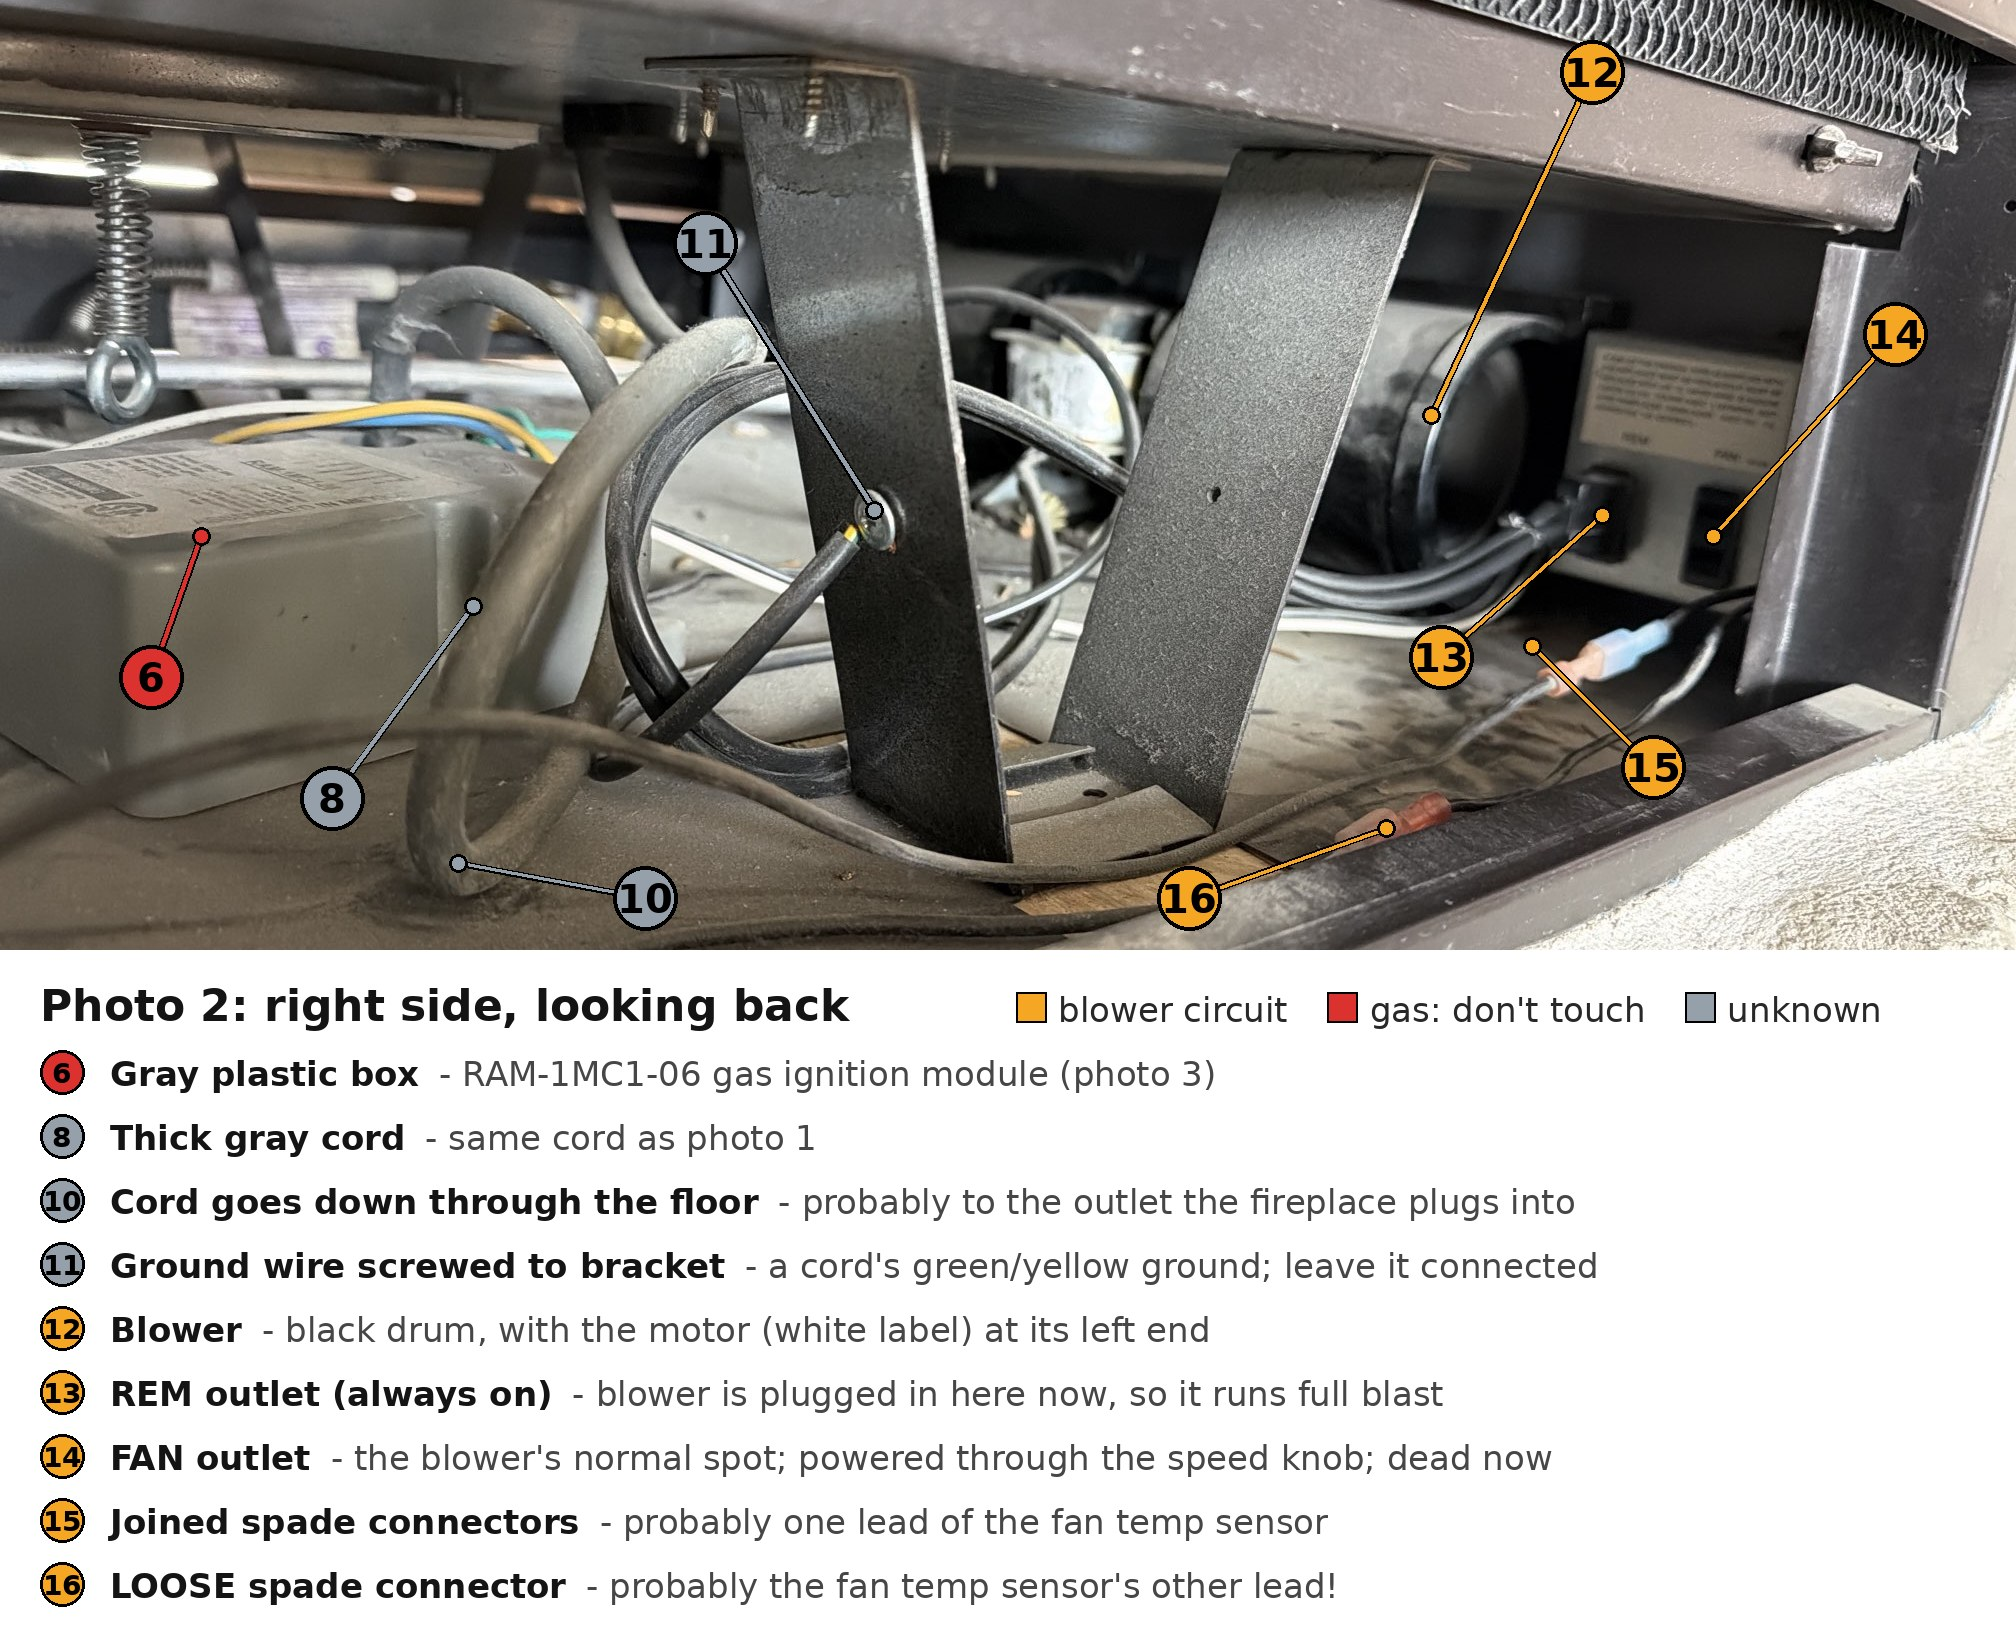
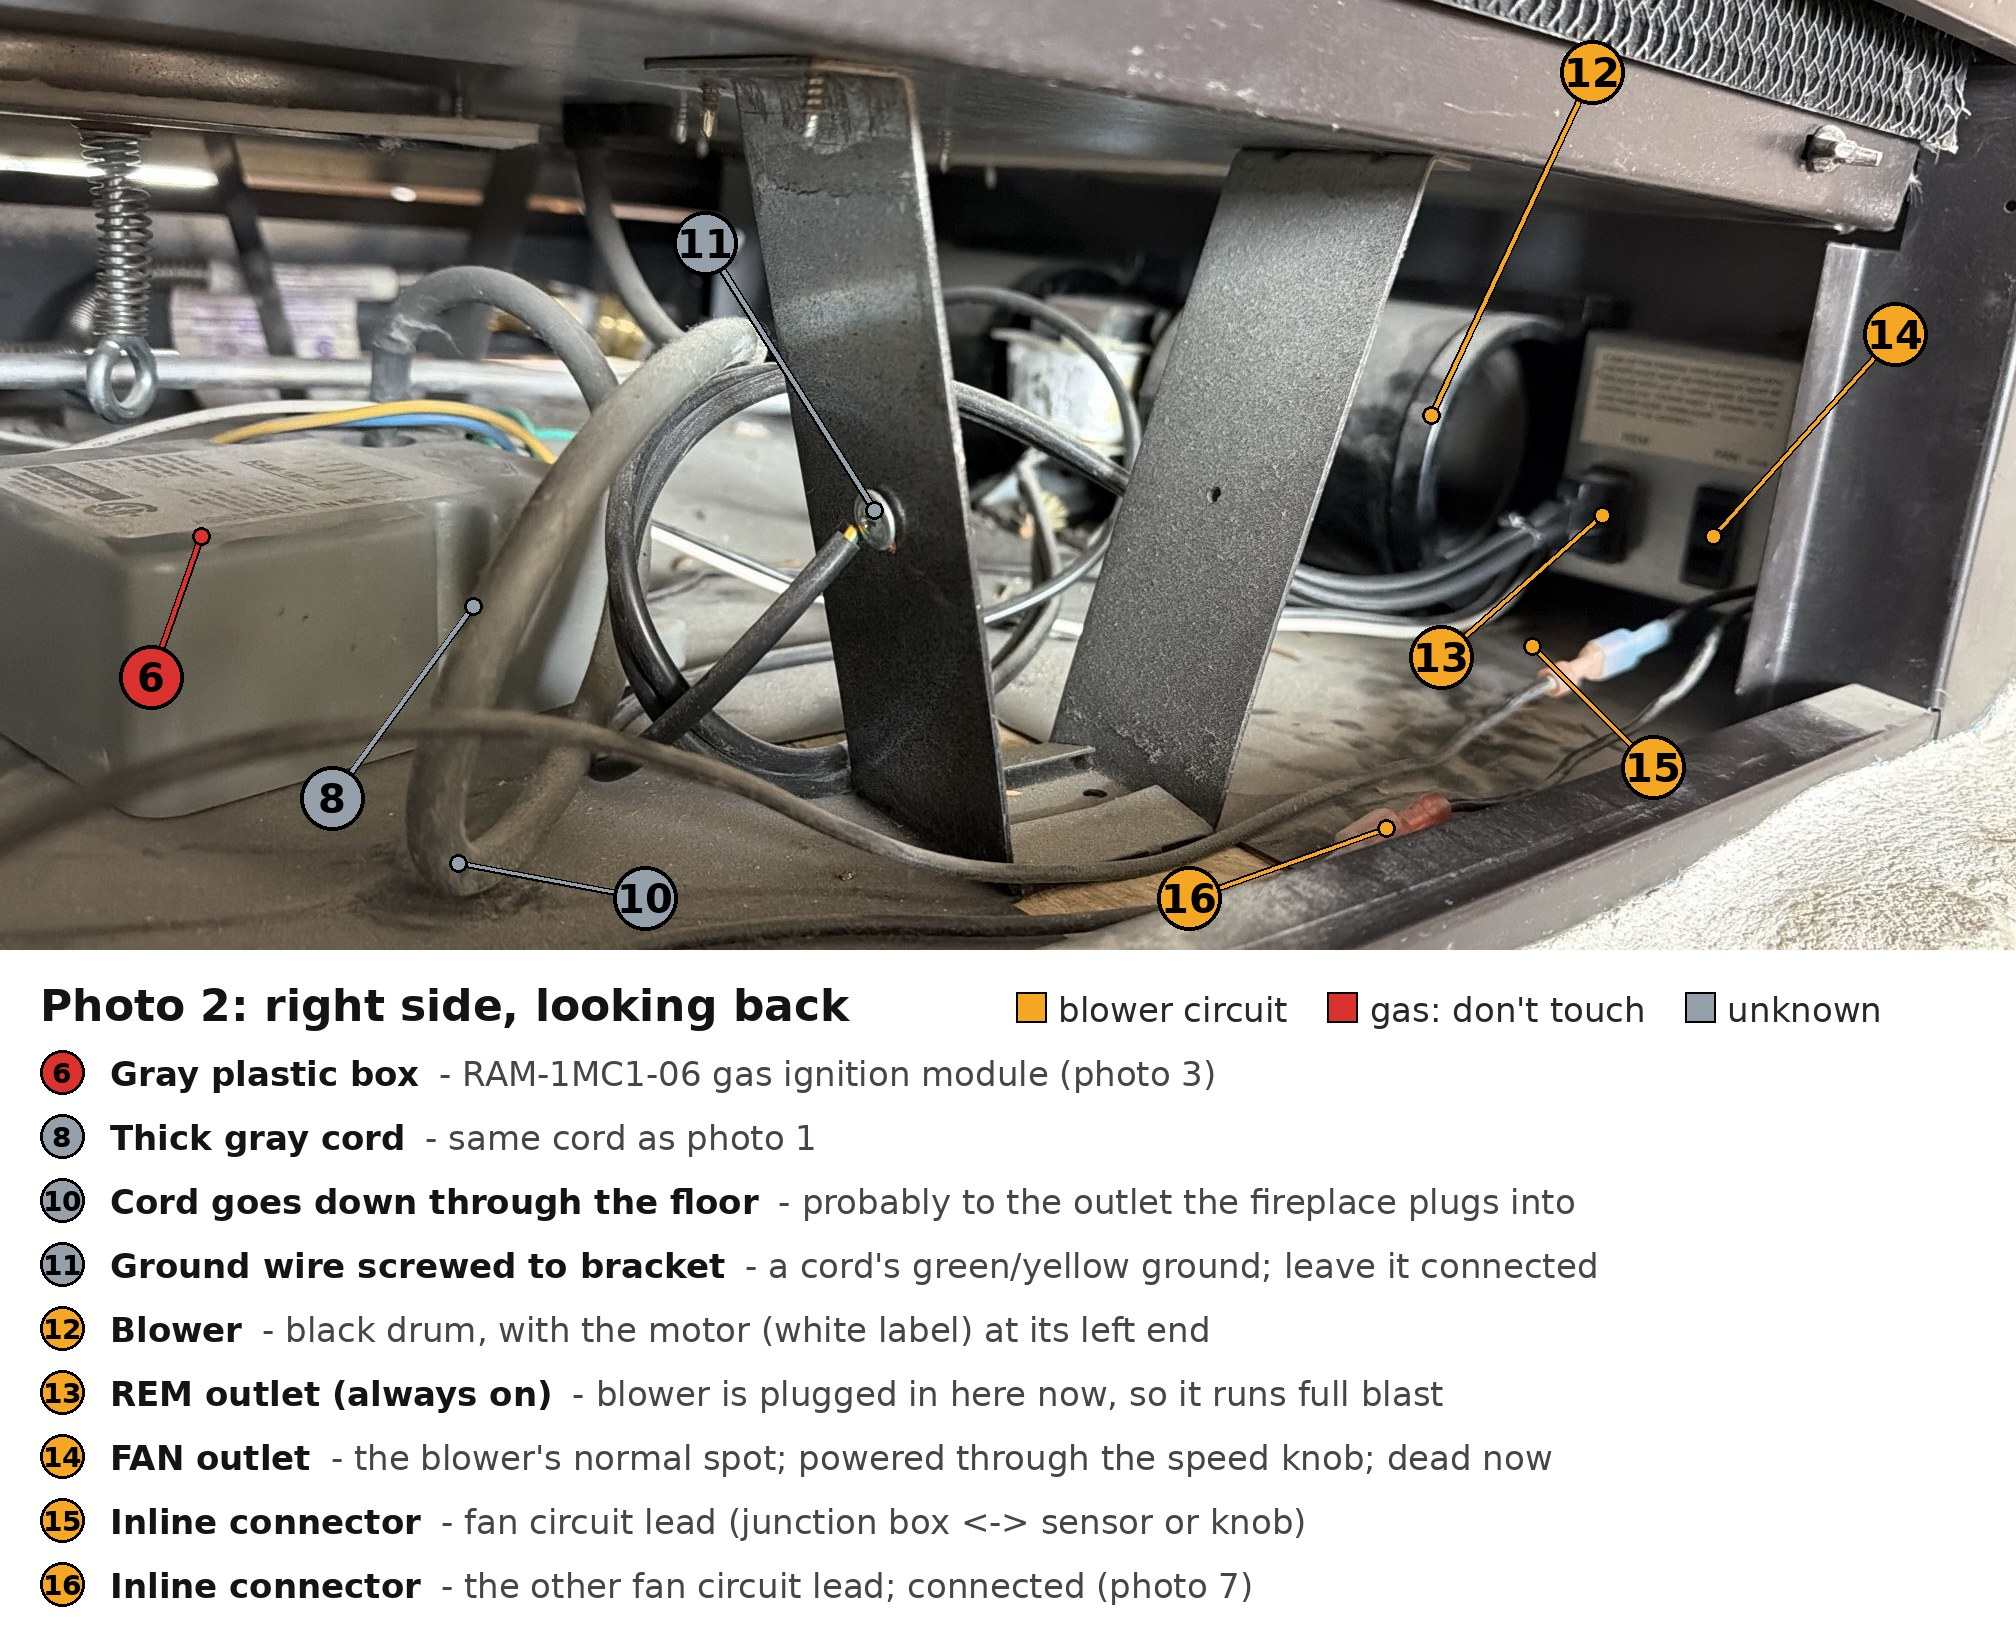
Correct connector 16: it is connected, not loose
Claude-Session: https://claude.ai/code/session_018uak9j8cmQfDt7bDYqRs5F

Changed region(s): [[0.0625, 0.8985, 0.6562, 0.9915]]

diff --git a/fireplace-fan/README.md b/fireplace-fan/README.md
@@ -156,7 +156,7 @@ the parts in the photos:
 - **Junction box** (right side of the compartment) takes in 120 V and has two outlets:
   - **REM** (#13): always on. The blower is plugged in here right now, which is why it runs full blast with no control.
   - **FAN** (#14): where the blower is meant to plug in. Power reaches it through the **speed knob** (#1) **and** the fan kit's **temperature sensor switch**, one after the other. The sensor closes when the firebox warms up (about 120°F) and opens when it cools (about 90°F). FAN has no power right now.
-- **Temperature sensor switch:** a small disc on a bracket, joined to the rest of the wiring by inline spade connectors (drawn that way in Figure 33). **#15 and #16 are almost certainly its two leads, and #16 is unplugged.** That alone would keep the FAN outlet dead.
+- **Temperature sensor switch** (#23): a small disc on a bracket on the left wall. The fan circuit leaves and re-enters the junction box on two leads with woven high-temperature insulation, each joined by an inline spade connector (#15 and #16, both connected). One runs from the junction box to the sensor; the other runs from the knob back to the junction box.
 - **RAM module** (#6): the gas *ignition* controller. It sparks the ignitor, opens the gas valve, and watches the flame. It is **not** a temperature sensor and has no fan wires. Leave it, the on/off switch and its wires (#7, #20–22), the gas valve and the gas line alone.
 
 ### Why the FAN outlet is dead: checks
